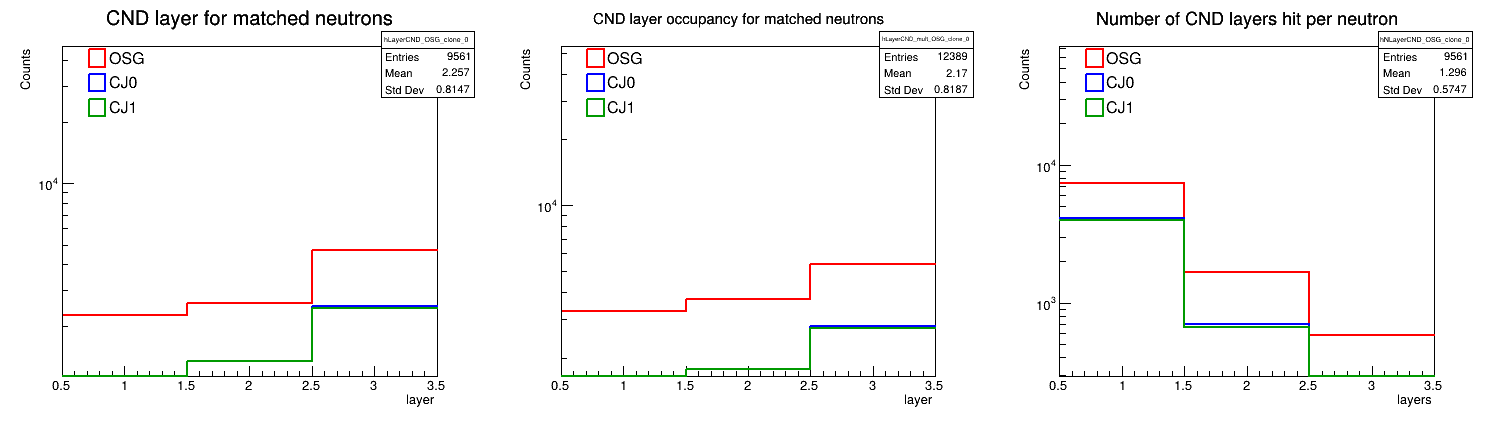
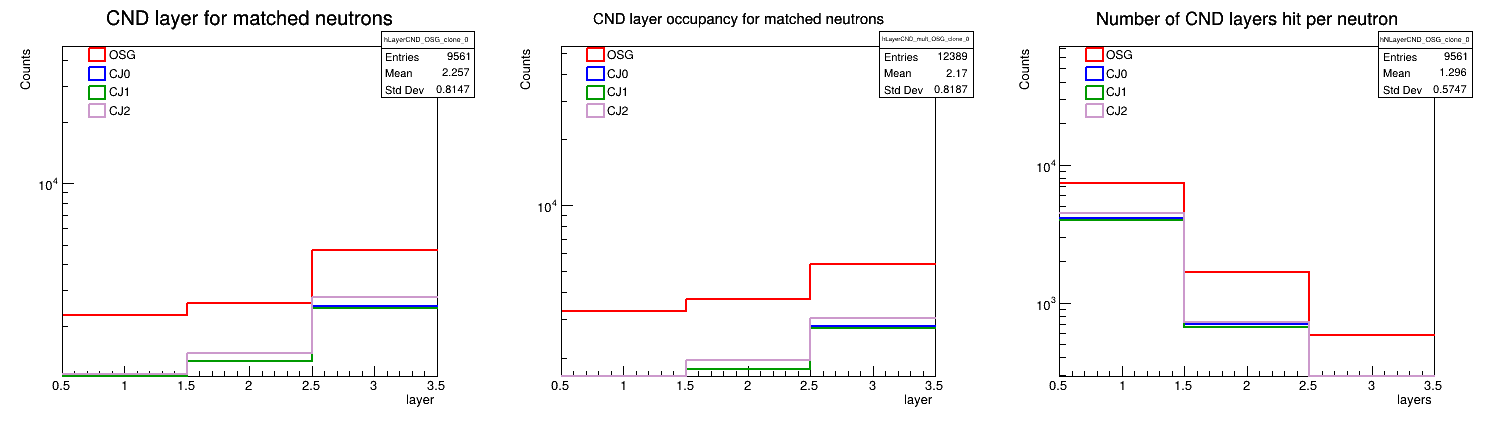
✨ Introduce analysis calibration mode

diff --git a/compare_cnd_versions.C b/compare_cnd_versions.C
@@ -986,23 +986,25 @@ void draw_overlay_1D_N(const std::vector<TH1 *> &h_in,
 }
 
 // Helper: draw 3 TH2 side-by-side
-void draw_triptych_2D(TH2 *h1_in, TH2 *h2_in, TH2 *h3_in,
+void draw_triptych_2D(TH2 *h1_in, TH2 *h2_in, TH2 *h3_in, TH2 *h4_in,
                       const char *title,
                       const char *outname,
                       bool normalize = true,
                       bool logz = true)
 {
-    if (!h1_in || !h2_in || !h3_in)
+    if (!h1_in || !h2_in || !h3_in || !h4_in)
         return;
 
     // Clone to avoid modifying originals
     auto *h1 = (TH2 *)h1_in->Clone(Form("%s_clone1", h1_in->GetName()));
     auto *h2 = (TH2 *)h2_in->Clone(Form("%s_clone2", h2_in->GetName()));
     auto *h3 = (TH2 *)h3_in->Clone(Form("%s_clone3", h3_in->GetName()));
+    auto *h4 = (TH2 *)h4_in->Clone(Form("%s_clone4", h4_in->GetName()));
 
     h1->SetDirectory(nullptr);
     h2->SetDirectory(nullptr);
     h3->SetDirectory(nullptr);
+    h4->SetDirectory(nullptr);
 
     // Optional normalization (global integral)
     if (normalize)
@@ -1013,13 +1015,15 @@ void draw_triptych_2D(TH2 *h1_in, TH2 *h2_in, TH2 *h3_in,
             h2->Scale(1.0 / h2->Integral());
         if (h3->Integral() > 0)
             h3->Scale(1.0 / h3->Integral());
+        if (h4->Integral() > 0)
+            h4->Scale(1.0 / h4->Integral());
     }
 
     // gPad->Modified();
     // gPad->Update();
 
-    auto *c = new TCanvas(Form("c2D_%s", outname), title, 1800, 450);
-    c->Divide(3, 1);
+    auto *c = new TCanvas(Form("c2D_%s", outname), title, 1800, 900);
+    c->Divide(2, 2);
 
     c->cd(1);
     gPad->SetRightMargin(0.14);
@@ -1041,6 +1045,13 @@ void draw_triptych_2D(TH2 *h1_in, TH2 *h2_in, TH2 *h3_in,
         gPad->SetLogz();
     h3->SetStats(0);
     h3->Draw("colz");
+
+    c->cd(4);
+    gPad->SetRightMargin(0.14);
+    if (logz)
+        gPad->SetLogz();
+    h4->SetStats(0);
+    h4->Draw("colz");
 
     c->SaveAs(outname);
 }
@@ -1100,11 +1111,13 @@ void compare_cnd_versions(int maxEvents = 300000)
     TChain *chOSG = make_chain(BASE, "testOSG");
     TChain *chCJ0 = make_chain(BASE, "testCJ0");
     TChain *chCJ1 = make_chain(BASE, "testCJ1");
+    TChain *chCJ2 = make_chain(BASE, "testCJ2");
 
     // Book hists
     Hists hOSG = book_hists("OSG");
     Hists hCJ0 = book_hists("CJ0");
     Hists hCJ1 = book_hists("CJ1");
+    Hists hCJ2 = book_hists("CJ2");
 
     std::cout << "OSG chain files = "
               << (chOSG->GetListOfFiles() ? chOSG->GetListOfFiles()->GetEntries() : -1)
@@ -1122,34 +1135,39 @@ void compare_cnd_versions(int maxEvents = 300000)
     process_chain(chOSG, hOSG, "OSG", maxEvents, /*cnd_id*/ 3, /*maxAngleDeg=*/10, &thCut);
     process_chain(chCJ0, hCJ0, "CJ0", maxEvents, /*cnd_id*/ 3, /*maxAngleDeg=*/10, &thCut);
     process_chain(chCJ1, hCJ1, "CJ1", maxEvents, /*cnd_id*/ 3, /*maxAngleDeg=*/10, &thCut);
+    process_chain(chCJ2, hCJ2, "CJ2", maxEvents, /*cnd_id*/ 3, /*maxAngleDeg=*/10, &thCut);
 
     // --- Bin-by-bin differences (OSG - CJ)
     auto *dE_CJ0 = make_diff_hist(hOSG.hEnergy_CND, hCJ0.hEnergy_CND, "dE_OSG_minus_CJ0");
     auto *dE_CJ1 = make_diff_hist(hOSG.hEnergy_CND, hCJ1.hEnergy_CND, "dE_OSG_minus_CJ1");
+    auto *dE_CJ2 = make_diff_hist(hOSG.hEnergy_CND, hCJ2.hEnergy_CND, "dE_OSG_minus_CJ2");
 
     auto *dTh_CJ0 = make_diff_hist(hOSG.hTheta_CND, hCJ0.hTheta_CND, "dTh_OSG_minus_CJ0");
     auto *dTh_CJ1 = make_diff_hist(hOSG.hTheta_CND, hCJ1.hTheta_CND, "dTh_OSG_minus_CJ1");
+    auto *dTh_CJ2 = make_diff_hist(hOSG.hTheta_CND, hCJ2.hTheta_CND, "dTh_OSG_minus_CJ2");
 
     auto *dPh_CJ0 = make_diff_hist(hOSG.hPhi_CND, hCJ0.hPhi_CND, "dPh_OSG_minus_CJ0");
     auto *dPh_CJ1 = make_diff_hist(hOSG.hPhi_CND, hCJ1.hPhi_CND, "dPh_OSG_minus_CJ1");
+    auto *dPh_CJ2 = make_diff_hist(hOSG.hPhi_CND, hCJ2.hPhi_CND, "dPh_OSG_minus_CJ2");
 
     // print hOSG.hTheta_CND minumum angle bin with non-zero content
     printf("OSG hTheta_CND min angle with content: %f deg\n", hOSG.hTheta_CND->GetXaxis()->GetBinLowEdge(hOSG.hTheta_CND->FindFirstBinAbove(0)));
     printf("CJ0 hTheta_CND min angle with content: %f deg\n", hCJ0.hTheta_CND->GetXaxis()->GetBinLowEdge(hCJ0.hTheta_CND->FindFirstBinAbove(0)));
     printf("CJ1 hTheta_CND min angle with content: %f deg\n", hCJ1.hTheta_CND->GetXaxis()->GetBinLowEdge(hCJ1.hTheta_CND->FindFirstBinAbove(0)));
+    printf("CJ2 hTheta_CND min angle with content: %f deg\n", hCJ2.hTheta_CND->GetXaxis()->GetBinLowEdge(hCJ2.hTheta_CND->FindFirstBinAbove(0)));
 
     {
         auto *c = new TCanvas("c_diff", "OSG - CJ bin-by-bin differences and originals", 1800, 450);
         c->Divide(3, 1);
 
         c->cd(1);
-        draw_overlay_1D_N({hOSG.hEnergy_CND, hCJ0.hEnergy_CND, hCJ1.hEnergy_CND, dE_CJ0, dE_CJ1}, {"OSG", "CJ0", "CJ1", "OSG - CJ0", "OSG - CJ1"}, /*normalize=*/false, /*logy=*/true, /*legend box*/ 0.12, 0.75, 0.55, 0.90, /*ncols=*/2, "CND E difference (bin-by-bin);E [GeV];counts");
+        draw_overlay_1D_N({hOSG.hEnergy_CND, hCJ0.hEnergy_CND, hCJ1.hEnergy_CND, hCJ2.hEnergy_CND, dE_CJ0, dE_CJ1, dE_CJ2}, {"OSG", "CJ0", "CJ1", "CJ2", "OSG - CJ0", "OSG - CJ1", "OSG - CJ2"}, /*normalize=*/false, /*logy=*/true, /*legend box*/ 0.12, 0.75, 0.55, 0.90, /*ncols=*/2, "CND E difference (bin-by-bin);E [GeV];counts");
 
         c->cd(2);
-        draw_overlay_1D_N({hOSG.hTheta_CND, hCJ0.hTheta_CND, hCJ1.hTheta_CND, dTh_CJ0, dTh_CJ1}, {"OSG", "CJ0", "CJ1", "OSG - CJ0", "OSG - CJ1"}, /*normalize=*/false, /*logy=*/true, /*legend box*/ 0.12, 0.75, 0.55, 0.90, /*ncols=*/2, "CND #theta difference (bin-by-bin);#theta [deg];counts");
+        draw_overlay_1D_N({hOSG.hTheta_CND, hCJ0.hTheta_CND, hCJ1.hTheta_CND, hCJ2.hTheta_CND, dTh_CJ0, dTh_CJ1, dTh_CJ2}, {"OSG", "CJ0", "CJ1", "CJ2", "OSG - CJ0", "OSG - CJ1", "OSG - CJ2"}, /*normalize=*/false, /*logy=*/true, /*legend box*/ 0.12, 0.75, 0.55, 0.90, /*ncols=*/2, "CND #theta difference (bin-by-bin);#theta [deg];counts");
 
         c->cd(3);
-        draw_overlay_1D_N({hOSG.hPhi_CND, hCJ0.hPhi_CND, hCJ1.hPhi_CND, dPh_CJ0, dPh_CJ1}, {"OSG", "CJ0", "CJ1", "OSG - CJ0", "OSG - CJ1"}, /*normalize=*/false, /*logy=*/true, /*legend box*/ 0.12, 0.75, 0.55, 0.90, /*ncols=*/2, "CND #phi difference (bin-by-bin);#phi [deg];counts");
+        draw_overlay_1D_N({hOSG.hPhi_CND, hCJ0.hPhi_CND, hCJ1.hPhi_CND, hCJ2.hPhi_CND, dPh_CJ0, dPh_CJ1, dPh_CJ2}, {"OSG", "CJ0", "CJ1", "CJ2", "OSG - CJ0", "OSG - CJ1", "OSG - CJ2"}, /*normalize=*/false, /*logy=*/true, /*legend box*/ 0.12, 0.75, 0.55, 0.90, /*ncols=*/2, "CND #phi difference (bin-by-bin);#phi [deg];counts");
 
         c->SaveAs("Histograms/cmp_CND_scint_diff_binbybin_all.png");
     }
@@ -1161,11 +1179,11 @@ void compare_cnd_versions(int maxEvents = 300000)
         c->Divide(3, 1);
 
         c->cd(1);
-        draw_overlay_1D_N({hOSG.hP, hCJ0.hP, hCJ1.hP, hOSG.hPMC, hCJ0.hPMC, hCJ1.hPMC}, {"OSG REC::Particle", "CJ0 REC::Particle", "CJ1 REC::Particle", "OSG MC::Particle", "CJ0 MC::Particle", "CJ1 MC::Particle"}, /*normalize =*/false, /*logy =*/true, /*legend box*/ 0.12, 0.75, 0.83, 0.90, /*ncols=*/2, "Neutron p from REC::Particle and MC::Particle;p [GeV];Counts");
+        draw_overlay_1D_N({hOSG.hP, hCJ0.hP, hCJ1.hP, hCJ2.hP, hOSG.hPMC, hCJ0.hPMC, hCJ1.hPMC, hCJ2.hPMC}, {"OSG REC::Particle", "CJ0 REC::Particle", "CJ1 REC::Particle", "CJ2 REC::Particle", "OSG MC::Particle", "CJ0 MC::Particle", "CJ1 MC::Particle", "CJ2 MC::Particle"}, /*normalize =*/false, /*logy =*/true, /*legend box*/ 0.12, 0.75, 0.83, 0.90, /*ncols=*/2, "Neutron p from REC::Particle and MC::Particle;p [GeV];Counts");
         c->cd(2);
-        draw_overlay_1D_N({hOSG.hTheta, hCJ0.hTheta, hCJ1.hTheta, hOSG.hThetaMC, hCJ0.hThetaMC, hCJ1.hThetaMC}, {"OSG REC::Particle", "CJ0 REC::Particle", "CJ1 REC::Particle", "OSG MC::Particle", "CJ0 MC::Particle", "CJ1 MC::Particle"}, /*normalize =*/false, /*logy =*/true, /*legend box*/ 0.12, 0.75, 0.83, 0.90, /*ncols=*/2, "Neutron #theta from REC::Particle and MC::Particle;#theta [deg];Counts");
+        draw_overlay_1D_N({hOSG.hTheta, hCJ0.hTheta, hCJ1.hTheta, hCJ2.hTheta, hOSG.hThetaMC, hCJ0.hThetaMC, hCJ1.hThetaMC, hCJ2.hThetaMC}, {"OSG REC::Particle", "CJ0 REC::Particle", "CJ1 REC::Particle", "CJ2 REC::Particle", "OSG MC::Particle", "CJ0 MC::Particle", "CJ1 MC::Particle", "CJ2 MC::Particle"}, /*normalize =*/false, /*logy =*/true, /*legend box*/ 0.12, 0.75, 0.83, 0.90, /*ncols=*/2, "Neutron #theta from REC::Particle and MC::Particle;#theta [deg];Counts");
         c->cd(3);
-        draw_overlay_1D_N({hOSG.hPhi, hCJ0.hPhi, hCJ1.hPhi, hOSG.hPhiMC, hCJ0.hPhiMC, hCJ1.hPhiMC}, {"OSG REC::Particle", "CJ0 REC::Particle", "CJ1 REC::Particle", "OSG MC::Particle", "CJ0 MC::Particle", "CJ1 MC::Particle"}, /*normalize =*/false, /*logy =*/true, /*legend box*/ 0.12, 0.75, 0.83, 0.90, /*ncols=*/2, "Neutron #phi from REC::Particle and MC::Particle;#phi [deg];Counts");
+        draw_overlay_1D_N({hOSG.hPhi, hCJ0.hPhi, hCJ1.hPhi, hCJ2.hPhi, hOSG.hPhiMC, hCJ0.hPhiMC, hCJ1.hPhiMC, hCJ2.hPhiMC}, {"OSG REC::Particle", "CJ0 REC::Particle", "CJ1 REC::Particle", "CJ2 REC::Particle", "OSG MC::Particle", "CJ0 MC::Particle", "CJ1 MC::Particle", "CJ2 MC::Particle"}, /*normalize =*/false, /*logy =*/true, /*legend box*/ 0.12, 0.75, 0.83, 0.90, /*ncols=*/2, "Neutron #phi from REC::Particle and MC::Particle;#phi [deg];Counts");
         c->SaveAs("Histograms/cmp_RECParticle_MCParticle_neutrons_1D.png");
     }
 
@@ -1177,11 +1195,11 @@ void compare_cnd_versions(int maxEvents = 300000)
         c->Divide(3, 1);
 
         c->cd(1);
-        draw_overlay_1D_N({hOSG.hEnergy_CND, hCJ0.hEnergy_CND, hCJ1.hEnergy_CND}, {"OSG", "CJ0", "CJ1"}, /*normalize =*/false, /*logy =*/true, /*legend box*/ 0.15, 0.72, 0.35, 0.90, /*ncols=*/1, "Neutron E from CND-cluster;E [GeV];Counts");
+        draw_overlay_1D_N({hOSG.hEnergy_CND, hCJ0.hEnergy_CND, hCJ1.hEnergy_CND, hCJ2.hEnergy_CND}, {"OSG", "CJ0", "CJ1", "CJ2"}, /*normalize =*/false, /*logy =*/true, /*legend box*/ 0.15, 0.72, 0.35, 0.90, /*ncols=*/1, "Neutron E from CND-cluster;E [GeV];Counts");
         c->cd(2);
-        draw_overlay_1D_N({hOSG.hTheta_CND, hCJ0.hTheta_CND, hCJ1.hTheta_CND}, {"OSG", "CJ0", "CJ1"}, /*normalize =*/false, /*logy =*/true, /*legend box*/ 0.15, 0.72, 0.35, 0.90, /*ncols=*/1, "Neutron #theta from CND-cluster;#theta [deg];Counts");
+        draw_overlay_1D_N({hOSG.hTheta_CND, hCJ0.hTheta_CND, hCJ1.hTheta_CND, hCJ2.hTheta_CND}, {"OSG", "CJ0", "CJ1", "CJ2"}, /*normalize =*/false, /*logy =*/true, /*legend box*/ 0.15, 0.72, 0.35, 0.90, /*ncols=*/1, "Neutron #theta from CND-cluster;#theta [deg];Counts");
         c->cd(3);
-        draw_overlay_1D_N({hOSG.hPhi_CND, hCJ0.hPhi_CND, hCJ1.hPhi_CND}, {"OSG", "CJ0", "CJ1"}, /*normalize =*/false, /*logy =*/true, /*legend box*/ 0.15, 0.72, 0.35, 0.90, /*ncols=*/1, "Neutron #phi from CND-cluster;#phi [deg];Counts");
+        draw_overlay_1D_N({hOSG.hPhi_CND, hCJ0.hPhi_CND, hCJ1.hPhi_CND, hCJ2.hPhi_CND}, {"OSG", "CJ0", "CJ1", "CJ2"}, /*normalize =*/false, /*logy =*/true, /*legend box*/ 0.15, 0.72, 0.35, 0.90, /*ncols=*/1, "Neutron #phi from CND-cluster;#phi [deg];Counts");
         c->SaveAs("Histograms/cmp_CND_scint_1D.png");
     }
 
@@ -1193,9 +1211,9 @@ void compare_cnd_versions(int maxEvents = 300000)
         c->Divide(2, 1);
 
         c->cd(1);
-        draw_overlay_1D_N({hOSG.hDTheta_CND, hCJ0.hDTheta_CND, hCJ1.hDTheta_CND}, {"OSG", "CJ0", "CJ1"}, /*normalize =*/false, /*logy =*/false, /*legend box*/ 0.15, 0.72, 0.35, 0.90, /*ncols=*/1);
+        draw_overlay_1D_N({hOSG.hDTheta_CND, hCJ0.hDTheta_CND, hCJ1.hDTheta_CND, hCJ2.hDTheta_CND}, {"OSG", "CJ0", "CJ1", "CJ2"}, /*normalize =*/false, /*logy =*/false, /*legend box*/ 0.15, 0.72, 0.35, 0.90, /*ncols=*/1);
         c->cd(2);
-        draw_overlay_1D_N({hOSG.hDPhi_CND, hCJ0.hDPhi_CND, hCJ1.hDPhi_CND}, {"OSG", "CJ0", "CJ1"}, /*normalize =*/false, /*logy =*/false, /*legend box*/ 0.15, 0.72, 0.35, 0.90, /*ncols=*/1);
+        draw_overlay_1D_N({hOSG.hDPhi_CND, hCJ0.hDPhi_CND, hCJ1.hDPhi_CND, hCJ2.hDPhi_CND}, {"OSG", "CJ0", "CJ1", "CJ2"}, /*normalize =*/false, /*logy =*/false, /*legend box*/ 0.15, 0.72, 0.35, 0.90, /*ncols=*/1);
 
         c->SaveAs("Histograms/cmp_CND_residuals_1D.png");
     }
@@ -1208,11 +1226,11 @@ void compare_cnd_versions(int maxEvents = 300000)
         c->Divide(3, 1);
 
         c->cd(1);
-        draw_overlay_1D_N({hOSG.hDP_REC_MC, hCJ0.hDP_REC_MC, hCJ1.hDP_REC_MC}, {"OSG", "CJ0", "CJ1"}, /*normalize =*/false, /*logy =*/false, /*legend box*/ 0.15, 0.72, 0.35, 0.90, /*ncols=*/1);
+        draw_overlay_1D_N({hOSG.hDP_REC_MC, hCJ0.hDP_REC_MC, hCJ1.hDP_REC_MC, hCJ2.hDP_REC_MC}, {"OSG", "CJ0", "CJ1", "CJ2"}, /*normalize =*/false, /*logy =*/false, /*legend box*/ 0.15, 0.72, 0.35, 0.90, /*ncols=*/1);
         c->cd(2);
-        draw_overlay_1D_N({hOSG.hDTheta_REC_MC, hCJ0.hDTheta_REC_MC, hCJ1.hDTheta_REC_MC}, {"OSG", "CJ0", "CJ1"}, /*normalize =*/false, /*logy =*/false, /*legend box*/ 0.15, 0.72, 0.35, 0.90, /*ncols=*/1);
+        draw_overlay_1D_N({hOSG.hDTheta_REC_MC, hCJ0.hDTheta_REC_MC, hCJ1.hDTheta_REC_MC, hCJ2.hDTheta_REC_MC}, {"OSG", "CJ0", "CJ1", "CJ2"}, /*normalize =*/false, /*logy =*/false, /*legend box*/ 0.15, 0.72, 0.35, 0.90, /*ncols=*/1);
         c->cd(3);
-        draw_overlay_1D_N({hOSG.hDPhi_REC_MC, hCJ0.hDPhi_REC_MC, hCJ1.hDPhi_REC_MC}, {"OSG", "CJ0", "CJ1"}, /*normalize =*/false, /*logy =*/false, /*legend box*/ 0.15, 0.72, 0.35, 0.90, /*ncols=*/1);
+        draw_overlay_1D_N({hOSG.hDPhi_REC_MC, hCJ0.hDPhi_REC_MC, hCJ1.hDPhi_REC_MC, hCJ2.hDPhi_REC_MC}, {"OSG", "CJ0", "CJ1", "CJ2"}, /*normalize =*/false, /*logy =*/false, /*legend box*/ 0.15, 0.72, 0.35, 0.90, /*ncols=*/1);
         c->SaveAs("Histograms/cmp_residuals_MC_1D.png");
     }
 
@@ -1224,23 +1242,23 @@ void compare_cnd_versions(int maxEvents = 300000)
         c->Divide(3, 1);
 
         c->cd(1);
-        draw_overlay_1D_N({hOSG.hCNDLayer, hCJ0.hCNDLayer, hCJ1.hCNDLayer},
-                          {"OSG", "CJ0", "CJ1"},
+        draw_overlay_1D_N({hOSG.hCNDLayer, hCJ0.hCNDLayer, hCJ1.hCNDLayer, hCJ2.hCNDLayer},
+                          {"OSG", "CJ0", "CJ1", "CJ2"},
                           /*normalize=*/false,
                           /*logy=*/true,
                           0.15, 0.72, 0.35, 0.90, 1,
                           "CND layer for matched neutrons;layer;Counts");
 
         c->cd(2);
-        draw_overlay_1D_N({hOSG.hCNDLayer_occupancy, hCJ0.hCNDLayer_occupancy, hCJ1.hCNDLayer_occupancy},
-                          {"OSG", "CJ0", "CJ1"},
+        draw_overlay_1D_N({hOSG.hCNDLayer_occupancy, hCJ0.hCNDLayer_occupancy, hCJ1.hCNDLayer_occupancy, hCJ2.hCNDLayer_occupancy},
+                          {"OSG", "CJ0", "CJ1", "CJ2"},
                           /*normalize=*/false,
                           /*logy=*/true,
                           0.15, 0.72, 0.35, 0.90, 1,
                           "CND layer occupancy for matched neutrons;layer;Counts");
         c->cd(3);
-        draw_overlay_1D_N({hOSG.hCND_NLayers, hCJ0.hCND_NLayers, hCJ1.hCND_NLayers},
-                          {"OSG", "CJ0", "CJ1"},
+        draw_overlay_1D_N({hOSG.hCND_NLayers, hCJ0.hCND_NLayers, hCJ1.hCND_NLayers, hCJ2.hCND_NLayers},
+                          {"OSG", "CJ0", "CJ1", "CJ2"},
                           /*normalize=*/false,
                           /*logy=*/true,
                           0.15, 0.72, 0.35, 0.90, 1,
@@ -1291,14 +1309,15 @@ void compare_cnd_versions(int maxEvents = 300000)
     // ------------------------------------------------------------
     // 7) 2D histograms (triptychs)
     // ------------------------------------------------------------
-    draw_triptych_2D(hOSG.hPTheta, hCJ0.hPTheta, hCJ1.hPTheta,
+    draw_triptych_2D(hOSG.hPTheta, hCJ0.hPTheta, hCJ1.hPTheta, hCJ2.hPTheta,
                      "p vs theta (REC::Particle)", "Histograms/cmp_2D_p_vs_theta.png",
                      /*normalize =*/false, /*logz =*/true);
 
-    draw_triptych_2D(hOSG.hPPhi, hCJ0.hPPhi, hCJ1.hPPhi,
+    draw_triptych_2D(hOSG.hPPhi, hCJ0.hPPhi, hCJ1.hPPhi, hCJ2.hPPhi,
                      "p vs phi (REC::Particle)", "Histograms/cmp_2D_p_vs_phi.png",
                      /*normalize =*/false, /*logz =*/true);
-    draw_triptych_2D(hOSG.hThetaPhi, hCJ0.hThetaPhi, hCJ1.hThetaPhi,
+
+    draw_triptych_2D(hOSG.hThetaPhi, hCJ0.hThetaPhi, hCJ1.hThetaPhi, hCJ2.hThetaPhi,
                      "theta vs phi (REC::Particle)", "Histograms/cmp_2D_theta_vs_phi.png",
                      /*normalize =*/false, /*logz =*/true);
 
